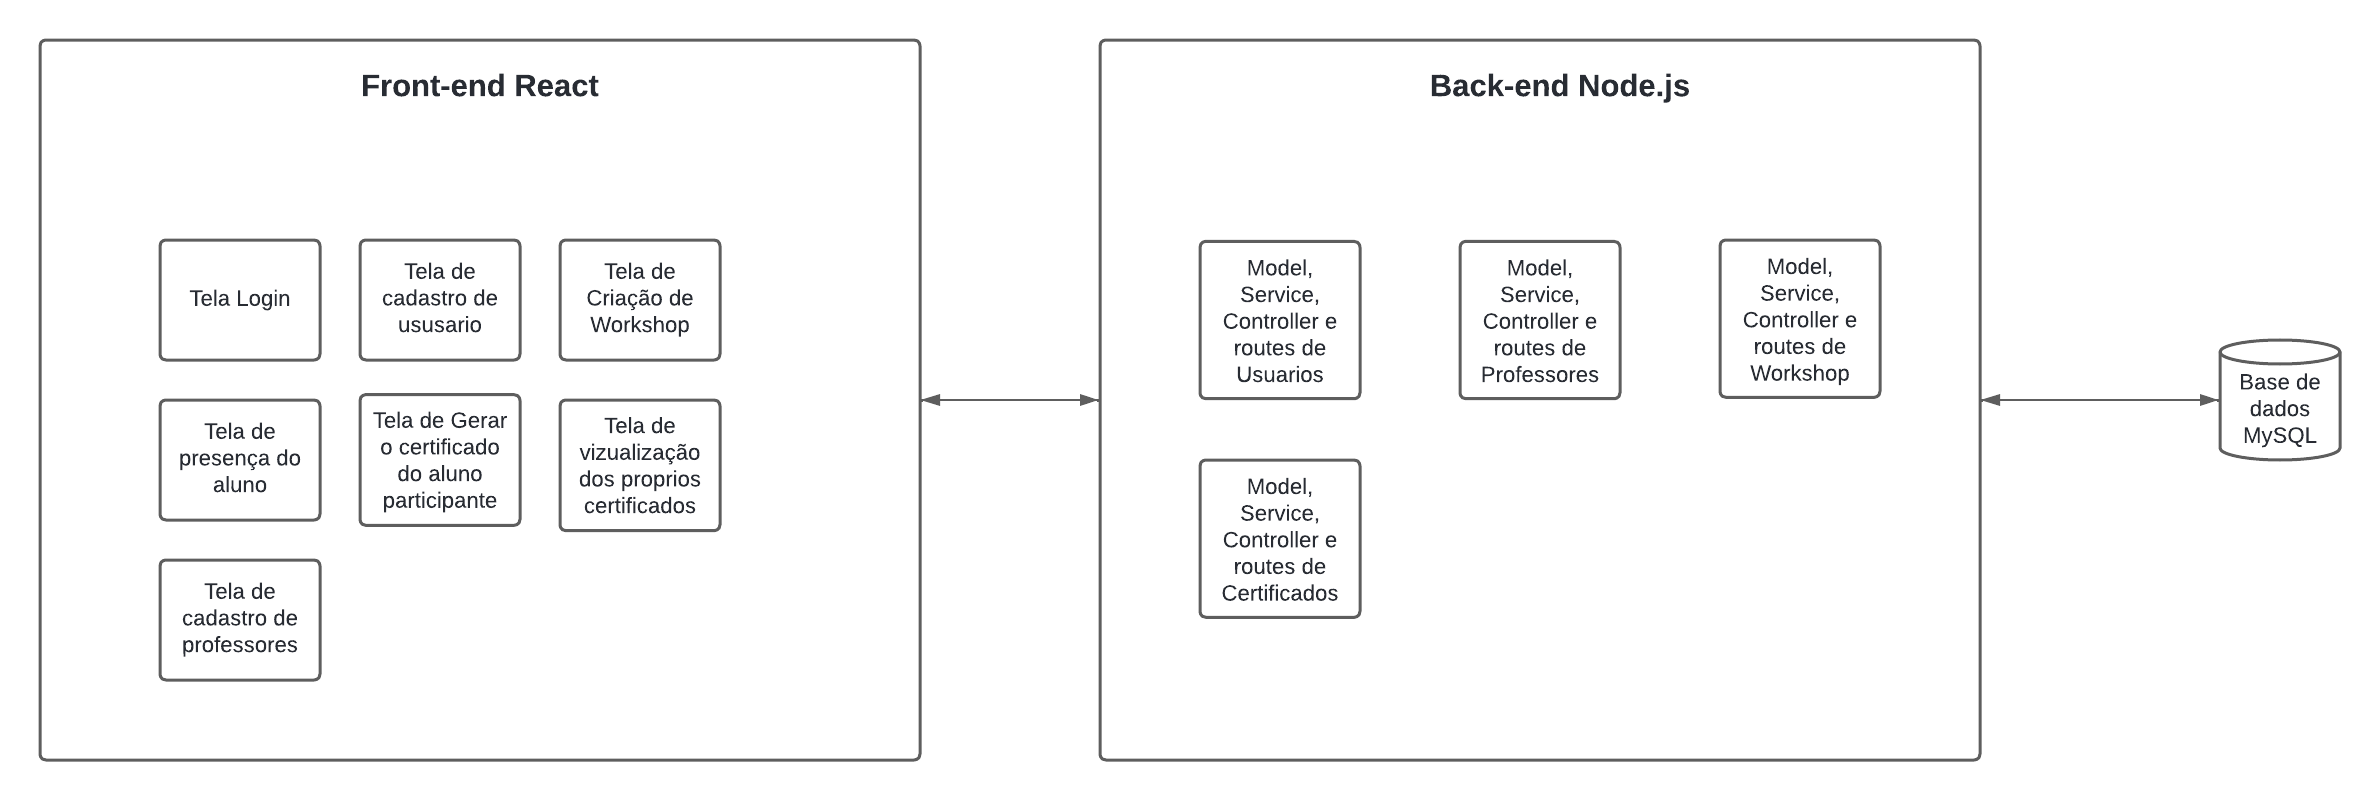
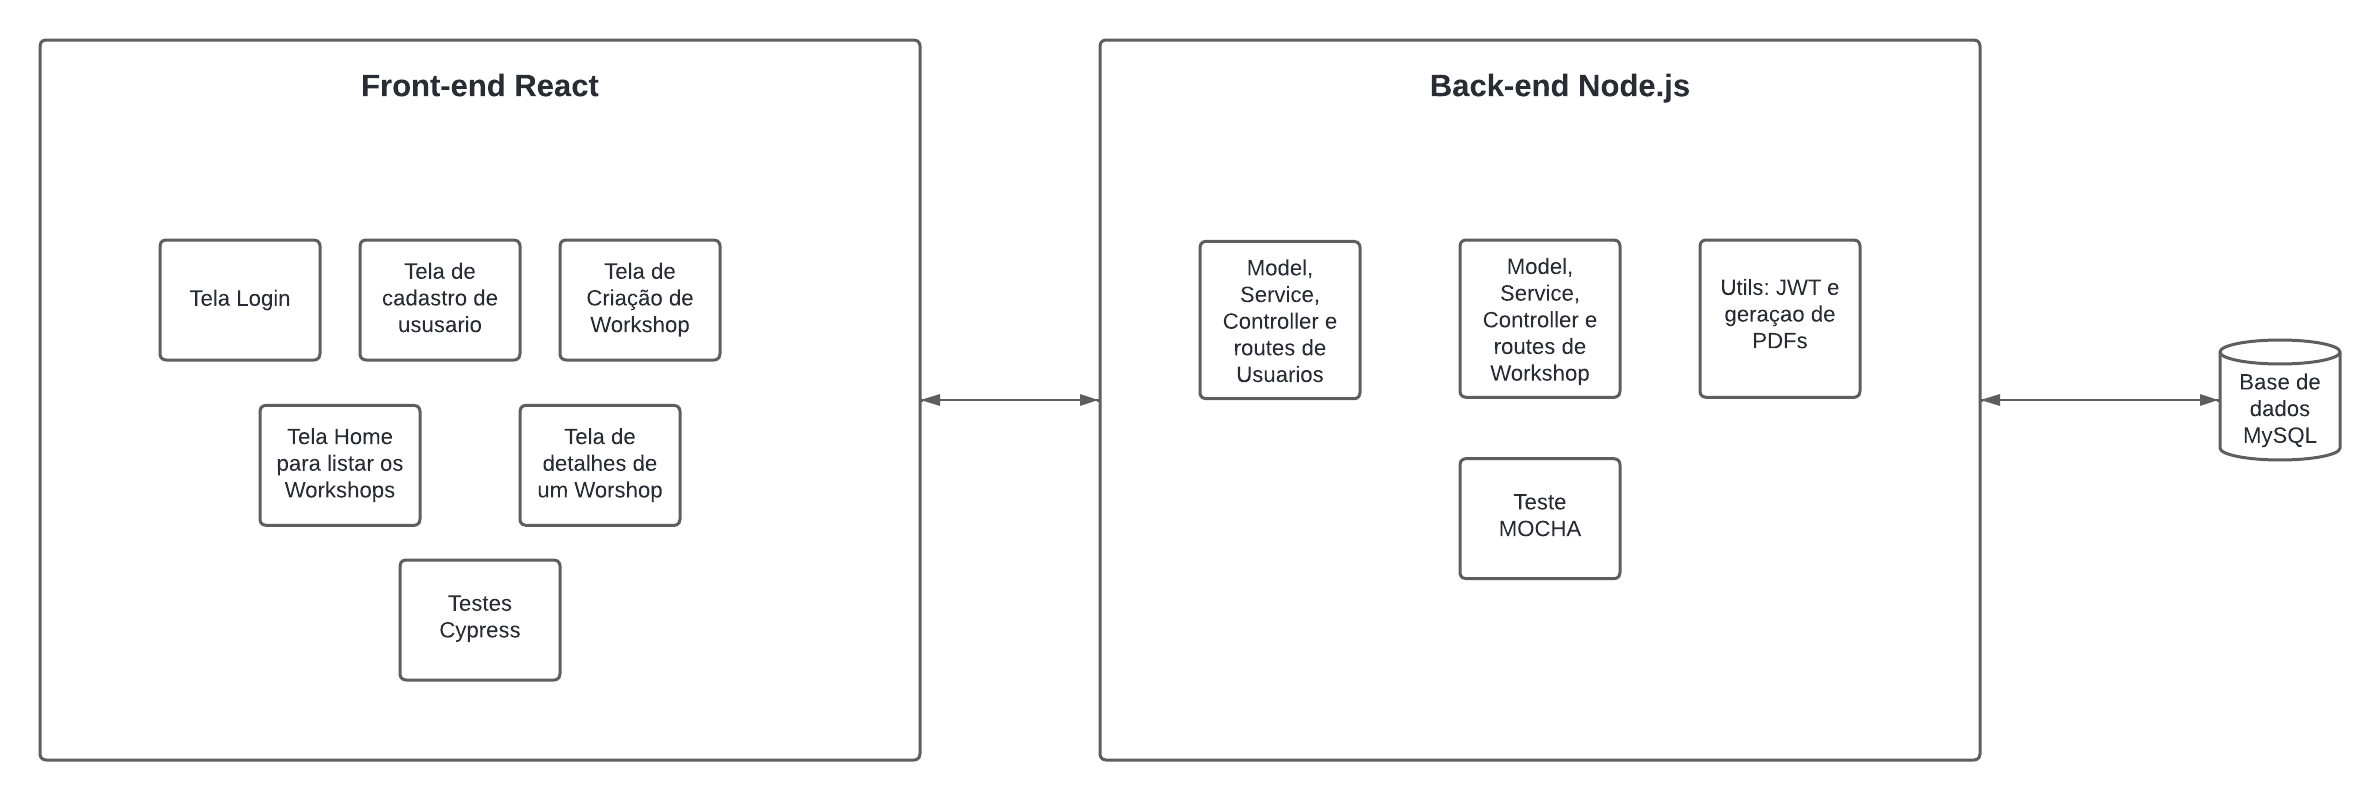
UPDATE DOC AND DIAGRAM

diff --git a/README.md b/README.md
@@ -1,4 +1,4 @@
-# Oficina de Integração 2 - Sistema de Registro de Presença
+# Oficina de Integração 2 - Sistema de Gerencia de Certificados
 
 ## Equipe:
 - Gustavo Henrique de Oliveira Camargo - RA: 2350599
@@ -7,11 +7,11 @@
 ---
 
 ## Descrição do Projeto
-Este projeto foi desenvolvido para a disciplina "Oficina de Integração 2", com o objetivo de integrar conteúdos de disciplinas anteriores do curso de Engenharia de Software. O sistema apoia o projeto de extensão ELLP (Ensino Lúdico de Lógica e Programação) no gerenciamento de presença dos alunos nas oficinas de ensino.
+Este projeto foi desenvolvido para a disciplina "Oficina de Integração 2", com o objetivo de integrar conteúdos de disciplinas anteriores do curso de Engenharia de Software. O sistema apoia o projeto de extensão ELLP (Ensino Lúdico de Lógica e Programação) no gerenciamento de certificados dos alunos nas oficinas de ensino.
 
 ## 1. Organização e Tema do Projeto
-- **Tema**: Registro de presença em oficinas de ensino.
-- **Objetivo**: Desenvolver um sistema que registre e gerencie a presença de alunos nas atividades do projeto ELLP, incluindo horários de entrada e saída, além da geração de relatórios de frequência.
+- **Tema**: Registro de geração de certificados em oficinas de ensino.
+- **Objetivo**: Desenvolver um sistema que registre e gerencie a geração de certificados para alunos nas atividades do projeto ELLP.
 
 ## 2. Requisitos Funcionais
 - **Autenticação e Autorização**: Controle de acesso com perfis diferenciados para administradores, voluntários e alunos.
@@ -27,44 +27,27 @@ O sistema foi planejado seguindo uma arquitetura de três camadas (3-Tier), comp
 
 - **Front-End**: Desenvolvido em React, responsável pela interface e experiência do usuário.
 - **Back-End**: Implementado em Node.js com Express, gerenciando a lógica de negócios e a comunicação com o banco de dados.
-- **Banco de Dados**: MySQL, utilizado para o armazenamento de informações sobre usuários, oficinas e registros de presença.
+- **Banco de Dados**: MySQL, utilizado para o armazenamento de informações sobre usuários, oficinas e geração de certificado.
 
 ![Diagrama Da Arquitetura](./Diagramas/Diagrama%20da%20arquitetura.png)
 
 
 ## 4. Estratégia de Automação de Testes
 
-Para garantir o bom funcionamento do sistema de Registro de Presença, implementamos uma estratégia de automação de testes que cobre testes unitários, de integração e de ponta a ponta, focando nas principais funcionalidades.
+Para garantir o bom funcionamento do sistema de Geração de certificaados, implementamos uma estratégia de automação de testes que cobre testes unitários e de integração, focando nas principais funcionalidades.
 
 ### 4.1 Testes Unitários
 
 - **Objetivo**: Validar que as funções e componentes essenciais do sistema, como cadastro de workshops, geração de certificados e controle de presença, funcionem corretamente de forma isolada.
-- **Ferramentas**: Jest e Mocha.
+- **Ferramentas**: Jest ou Mocha.
   - **Jest**: Utilizado principalmente para testar componentes do React.
     - **Exemplo**: Verificar se o botão de "Cadastrar Workshop" está habilitado apenas quando todos os campos obrigatórios estão preenchidos.
   - **Mocha**: Empregado no back-end em Node.js para verificar a lógica das funções responsáveis pela manipulação de dados e validações.
     - **Exemplo**: Testar a função que gera o certificado de participação, verificando se o PDF é criado corretamente e contém as informações necessárias (nome do aluno, data, workshop).
 
-### 4.2 Testes de Integração
+### 4.2 Testes de Front-End
 
-- **Objetivo**: Avaliar a interação entre diferentes partes do sistema, como a API e o banco de dados, garantindo que o cadastro de workshops, registro de presença e geração de certificados funcionem de ponta a ponta.
-- **Ferramenta para Testes de Endpoints**: SuperTest.
-  - **SuperTest**: Utilizado para simular requisições HTTP (GET, POST) aos endpoints da API.
-    - **Exemplo**: Enviar uma requisição POST para criar um novo workshop e verificar se o workshop é salvo corretamente no banco de dados.
-    - **Exemplo**: Enviar uma requisição POST para registrar a presença de um aluno em um workshop e verificar se o status de presença do aluno é atualizado corretamente.
-
-### 4.3 Testes de Front-End
-
-- **Objetivo**: Garantir que a interface em React funcione corretamente e que os usuários possam realizar ações como cadastro de workshops e visualização de certificados.
-- **Ferramentas**: Jest e SuperTest.
-  - **Jest**: Realiza testes unitários em componentes do React.
-    - **Exemplo**: Testar o formulário de cadastro de workshop, verificando se os campos obrigatórios estão presentes e exibem mensagens de erro quando deixados em branco.
-  - **SuperTest**: Testa a comunicação entre o front-end e a API.
-    - **Exemplo**: Simular o envio de dados de um workshop a partir do front-end e verificar se a resposta da API é correta e se os dados são exibidos na interface.
-
-### 4.4 Testes de Ponta a Ponta (E2E) com Cypress
-
-- **Objetivo**: Simular o uso completo do sistema, validando que os principais fluxos — como cadastro de workshop, registro de presença e geração de certificados — funcionam do início ao fim.
+- **Objetivo**: Simular o uso completo do sistema, validando que os principais fluxos — como cadastro de workshop e geração de certificados — funcionam do início ao fim.
 - **Ferramenta**: Cypress.
   - **Cypress**: Usado para simular a interação do professor com o sistema.
     - **Exemplo**: Simular o fluxo onde o professor faz login, cadastra um novo workshop, registra a presença dos alunos e, ao final, gera os certificados de participação.
@@ -75,7 +58,7 @@ Para garantir o bom funcionamento do sistema de Registro de Presença, implement
 - **Front-End**: React com Material UI para a interface de usuário.
 - **Back-End**: Node.js com Express.
 - **Banco de Dados**: MySQL.
-- **Testes**: Jest, Mocha, SuperTest, Cypress.
+- **Testes**: Mocha e Cypress.
 
 ---
 
